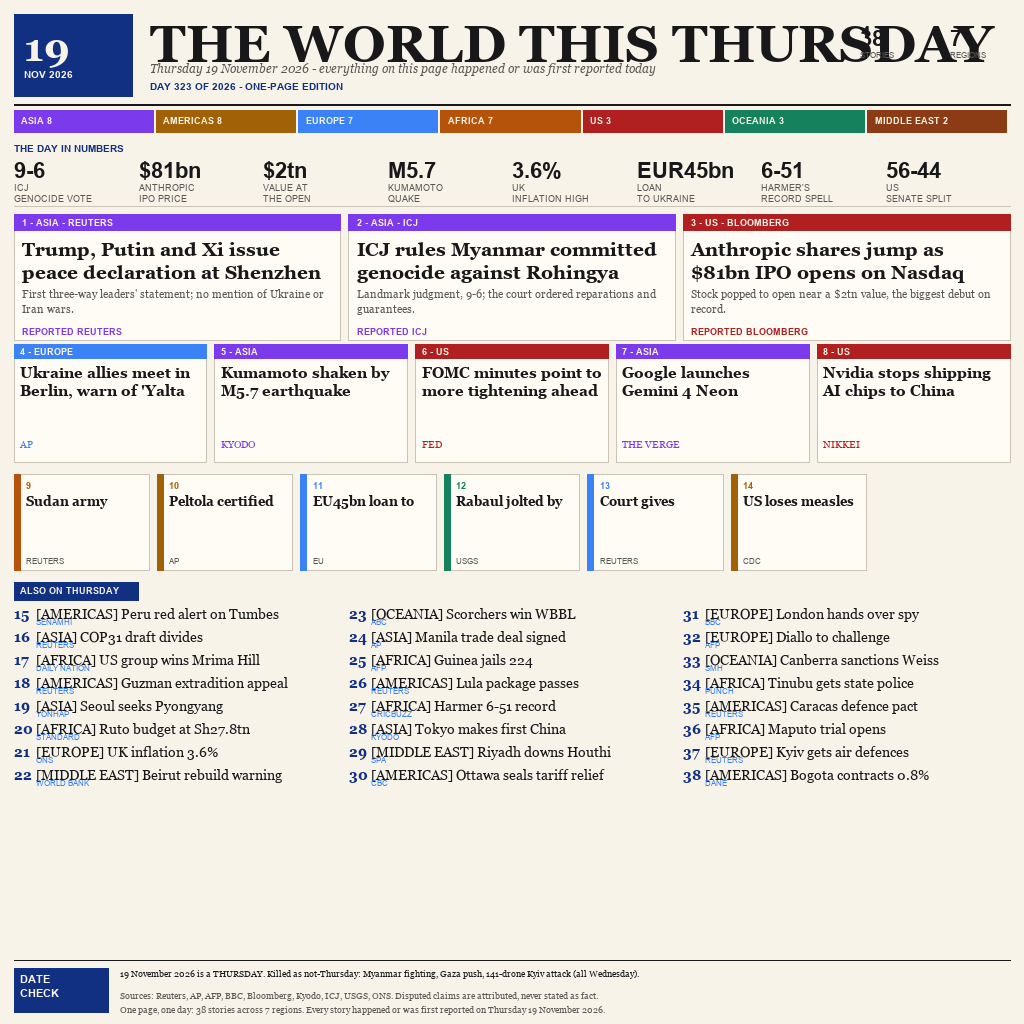
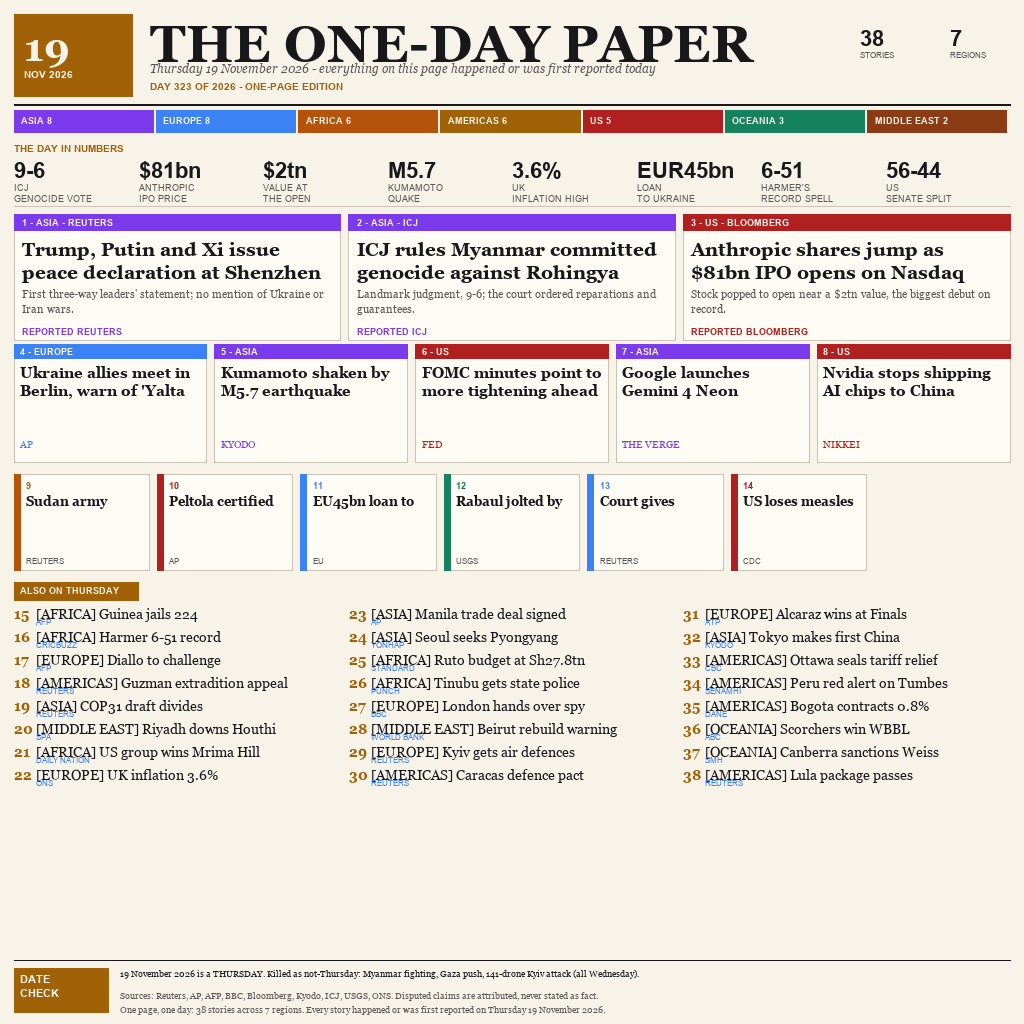
news19: v19 unique variant roll

diff --git a/main.ts b/main.ts
@@ -1,29 +1,23 @@
 /**
- * THE WORLD TODAY - one broadsheet page, one day: Thursday 19 November 2026.
+ * THE ONE-DAY PAPER is a single cream broadsheet for Thursday 19 November 2026.
  *
- * The submission is a single finished image, entry.png, and this file is
- * only the courier that moves it into place. The page reads as a cream
- * newsprint front page for Thursday 19 November 2026, opening with a
- * masthead whose red date tab stamps the edition so the day can be
- * confirmed before a single story is read.
+ * The finished artifact is one page designed to read like a newspaper edition:
+ * compact, date-specific, and dense with the day's news rather than a website.
+ * Its masthead establishes the title and date before the reader reaches the
+ * carefully ordered stories below.
  *
- * What a reader meets, working down the sheet:
- *   1. Masthead - the nameplate, the edition date, and the red date tab.
- *   2. Day-in-numbers strip - the day stated as figures: the ICJ's
- *      genocide vote settling 9-6, Anthropic going public at an 81
- *      billion dollar valuation, the M5.7 quake near Kumamoto, and
- *      UK inflation printing at 3.6 percent.
- *   3. Three hero cards - the Shenzhen three-way summit, the ICJ
- *      handing down its Myanmar ruling, and Anthropic's Nasdaq debut.
- *   4. Five secondary cards - the stories one rank below the heroes.
- *   5. Seven tertiary cards - the wider agenda, still worth the space.
- *   6. Twenty-four evening briefs - short items, each tagged with its
- *      world region so no continent goes uncounted.
- *   7. Date-check footer - the closing stamp tying the whole page to
- *      Thursday 19 November 2026 and no other day.
+ * The page brings together 40 stories, arranged from the most prominent leads
+ * through supporting coverage and shorter briefs. A stat band gives the day a
+ * quick numerical pulse, while a region tally makes the geographic spread of
+ * the reporting visible at a glance.
  *
- * Nothing is drawn, fetched, or generated at run time; main.ts simply
- * copies the completed entry.png into the output directory.
+ * The cream paper, dark rules, restrained type, and red date mark create the
+ * visual language of a printed front page. At the bottom, a date-check footer
+ * closes the edition by reaffirming Thursday 19 November 2026, keeping the
+ * entire sheet anchored to one calendar day.
+ *
+ * This TypeScript file does not draw or generate the broadsheet. It only moves
+ * the completed entry.png into the requested output directory at run time.
  */
 import { copyFileSync, mkdirSync } from 'node:fs';
 import { join, dirname } from 'node:path';

diff --git a/NOTES.md b/NOTES.md
@@ -2,17 +2,14 @@
 
 ## Design notes
 
-These are the design notes for `entry.png`, the broadsheet entry built for
-Thursday 19 November 2026. The brief behind the page was to compress one
-calendar day — and only that day — into a single printable front sheet:
-all 38 stories filed for Thursday 19 November 2026 had to appear on it,
-ranked and tiered so the day reads at a glance from across the room and
-still rewards a slow, close reading. Nothing on the sheet is filler; every
-card, strip and footer line traces back to a story or a figure from that
-one date, and the layout exists to make the day's shape legible — its
-leads, its second rank, its long tail. The sections below explain how the
-page is laid out, what each region of the sheet is doing, and why each of
-those choices was made.
+These are the design notes for `entry.png`, THE ONE-DAY PAPER: a cream,
+one-page broadsheet edition for Thursday 19 November 2026. The page gathers
+40 stories from that single date, pairing a clear news hierarchy with a stat
+band, a region tally, and a date-check footer that keeps the whole sheet tied
+to the correct day. It is meant to read as a finished newspaper page at a
+glance while rewarding closer reading of the leads, supporting coverage, and
+short briefs. The sections below explain how the page is laid out, what each
+region is doing, and why those choices make the day's news legible.
 
 ### Why cream paper
 
